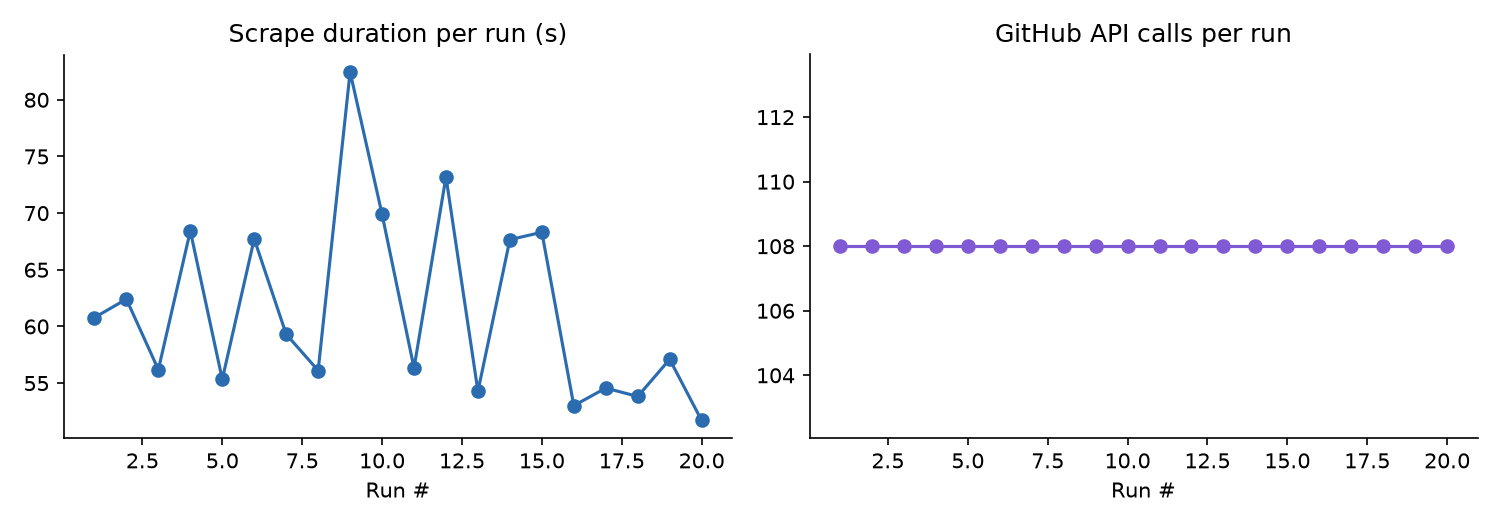
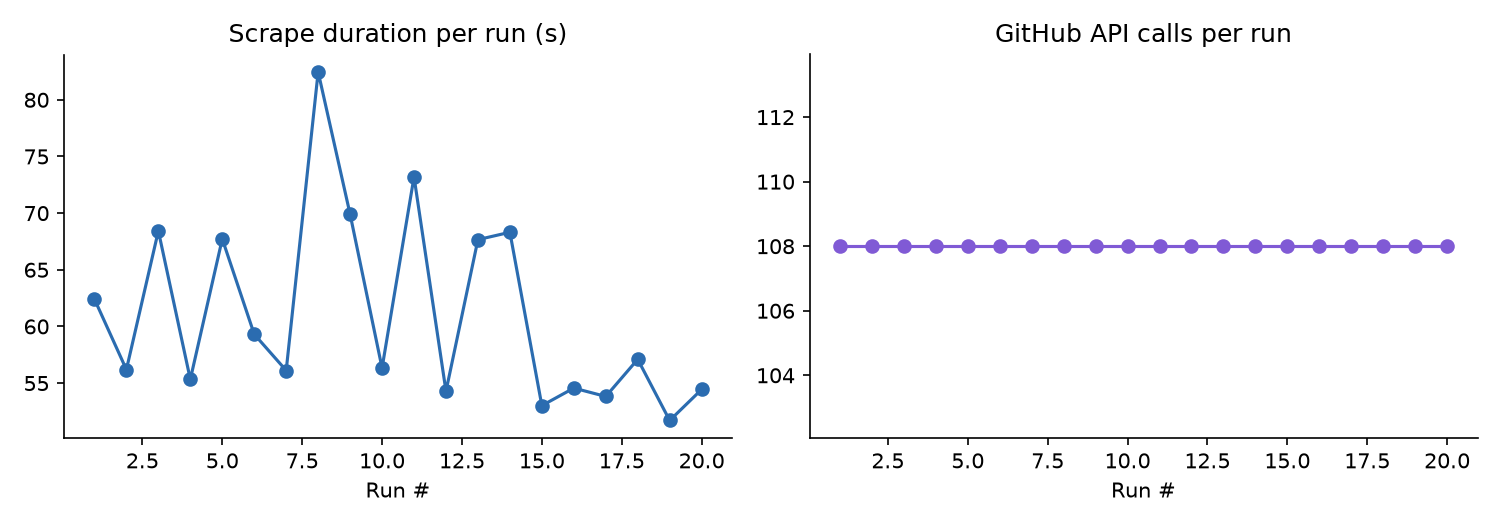
Weekly issue tracker refresh

diff --git a/README.md b/README.md
@@ -81,7 +81,7 @@ See [CONTRIBUTING.md](CONTRIBUTING.md) for the full contributor workflow — inc
 
 <!-- TRACKER:START -->
 
-_Last updated: 2026-08-01 03:54 UTC_
+_Last updated: 2026-08-01 05:02 UTC_
 
 _Tracking **18** upstream repos, **388** relevant open issues._
 
@@ -295,7 +295,7 @@ _Tracking **18** upstream repos, **388** relevant open issues._
 
 <!-- METRICS:START -->
 
-_Last run: 2026-08-01 03:53 UTC, took **51.7s**, **108** GitHub API calls, **4893/5000** rate limit remaining._
+_Last run: 2026-08-01 05:01 UTC, took **54.4s**, **108** GitHub API calls, **4893/5000** rate limit remaining._
 
 ![Scrape metrics trend](assets/metrics_trend.png)
 
